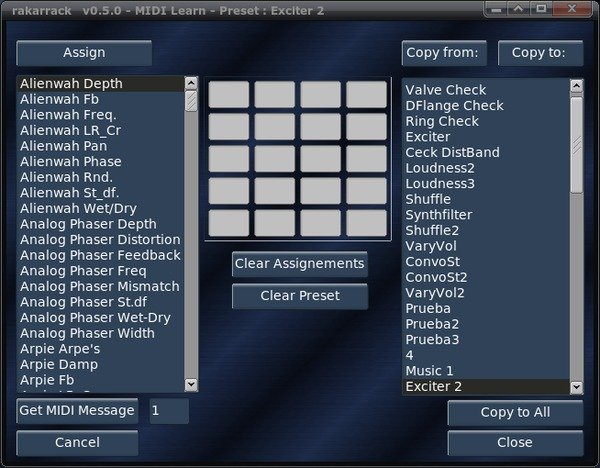
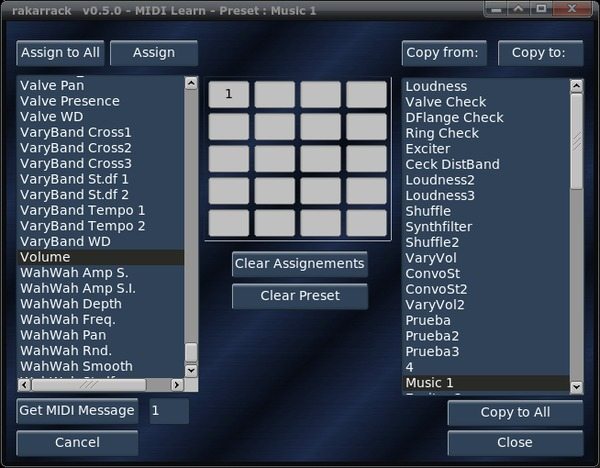
modified:   ChangeLog 	modified:   doc/help/help.html 	modified:   doc/help/imagenes/midilearn.jpg 	modified:   src/rakarrack.cxx 	modified:   src/rakarrack.fl 	modified:   src/rakarrack.h

diff --git a/doc/help/help.html b/doc/help/help.html
@@ -2,6 +2,7 @@
 <html><head>
 
 
+
   
   <meta http-equiv="CONTENT-TYPE" content="text/html; charset=utf-8"><title>Rakarrack Help</title>
   
@@ -586,8 +587,14 @@ to the selected effect parameter on the browser.<br>
 
 <p>You can "Assign" up to 20 effects parameter&nbsp; for a single
 control number message, also you can use different&nbsp; control
-messages to&nbsp; manage&nbsp; only one effect parameter.<br>
+messages to&nbsp; manage&nbsp; only one effect parameter.</p>
+<p>The "Assing to All" <b>add</b> this
+single assignement to all the presets in the bank, preserving
+everything that you have previously assigned in all the presets,
+contrary to what is doing in the "Copy to All" button that overwirte
+all the assignements.<br>
 </p>
+
 
 <p>The grid boxes in the middle display the engaged MIDI
 control messages to the selected effect parameter on the browser, the

diff --git a/src/rakarrack.h b/src/rakarrack.h
@@ -2818,6 +2818,11 @@ private:
   void cb_Assign_i(Fl_Button*, void*);
   static void cb_Assign(Fl_Button*, void*);
 public:
+  Fl_Button *AssignA;
+private:
+  void cb_AssignA_i(Fl_Button*, void*);
+  static void cb_AssignA(Fl_Button*, void*);
+public:
   Fl_Button *CancelRec;
 private:
   void cb_CancelRec_i(Fl_Button*, void*);
